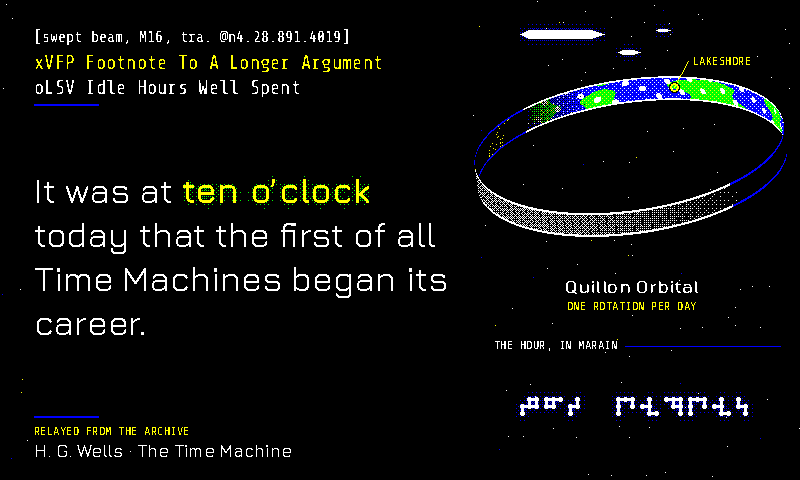
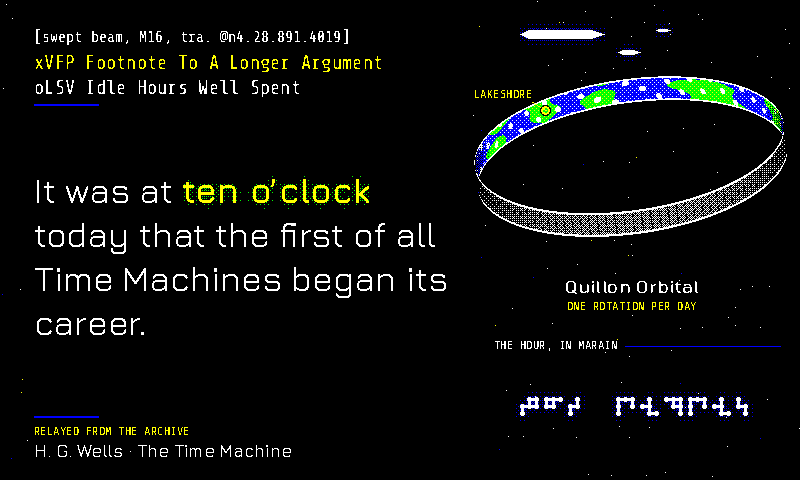
culture/orbital: fix two time-of-day bugs found in review
culture: the visible inner face showed the plates between 01:20 and
13:20, because noon was at -40 degrees rather than at the middle of the
far arc. As a result the afternoon marker sat on the black hull, and in
the small hours it sat on the lit face. Noon is now at -90 degrees, so
the face holds exactly the 06:00-18:00 plates. The trade-off is that the
face's night side shrinks to its two tips.

orbital: the sun's path was shifted right of the apex, which put it
behind the quote card from about 06:30 to 09:00. The path is now wide
and steep enough that the sun clears the card at every daylight minute,
and the noon sun still stands below the Arch.

Both fixes come with a test that fails on the previous code. The
goldens, previews and docs are updated.

Claude-Session: https://claude.ai/code/session_01AwDrAv4hFJ5HKd3W2Ckru6

diff --git a/idle_hours/render_quote.py b/idle_hours/render_quote.py
@@ -24814,7 +24814,7 @@ def render_observation_frame(time_str: str, quote_row: dict, width: int, height:
 #
 # * ``culture`` marks the plate whose local time is now. The marker travels
 #   the full ring once per 24 hours, riding the lit inner face through the day
-#   and crossing round onto the dark hull at night.
+#   and crossing round onto the hull at night.
 # * ``orbital`` paints the far side of the ring as the local clock sees it. The
 #   part of the Arch overhead is twelve hours away, so at noon the zenith is
 #   dark and the Arch is lit only where it leaves the horizons, and at midnight
@@ -25011,7 +25011,8 @@ def _marain_layout(text: str, max_cols: int) -> list[list[int | None]]:
 # traffic — a bracketed transmission line, then ``x`` (from) and ``o`` (to)
 # ship names — and the quote as its body. The matched phrase glows like a
 # drone's aura field. Right: the Orbital the signal concerns, a tilted ring
-# with a lit inner face, a night side pricked by city lights and a dark hull,
+# whose visible inner face holds exactly the plates in daylight (their cities
+# showing only where the face turns into dusk at its tips) and the hull,
 # the current plate marked; and under it the matched phrase again, in Marain.
 _CULTURE_TEXT_X = (34, 462)
 _CULTURE_HEADER_Y = 28
@@ -25022,7 +25023,10 @@ _CULTURE_ORBITAL = (632, 168, 156)       # centre x, centre y, radius
 _CULTURE_ORBITAL_K = 0.42                # minor/major axis = sin(view elevation)
 _CULTURE_ORBITAL_TILT = -0.14            # screen rotation of the ring, radians
 _CULTURE_ORBITAL_W = 24                  # band thickness on screen, px
-_CULTURE_NOON = math.radians(-40)        # ring angle of the plate at local noon
+# Ring angle of the plate at local noon: the middle of the far arc, so the lit
+# inner face we can see holds exactly the plates between 06:00 and 18:00 and
+# the marker is on the face by day and round on the hull by night.
+_CULTURE_NOON = math.radians(-90)
 _CULTURE_MARAIN_RECT = (494, 338, 780, 446)
 _CULTURE_MARAIN_PITCH = 7
 _CULTURE_MARAIN_STEP = 24                # glyph advance, px
@@ -25351,7 +25355,8 @@ def render_culture_frame(time_str: str, quote_row: dict, width: int, height: int
 # read — at noon the Arch is lit at its feet and dark overhead; at midnight the
 # zenith burns in daylight across a black sky and the feet are dark. Both halves
 # of that are Banks's own image. The sky follows the hour too: blue by day with
-# the sun on a path offset from the Arch (an Orbital is tilted to its star
+# the sun on a wide, steep path that keeps it clear of the quote card and
+# stands it below the Arch's apex at noon (an Orbital is tilted to its star
 # precisely so the far side does not eclipse noon), a warm band at the horizon
 # around dawn and dusk, and stars at night.
 #
@@ -25459,7 +25464,7 @@ def _orbital_paint_sky(image: Image.Image, clock: float) -> None:
             # The warm band, strongest over the sun's side of the sky: red
             # rising into a thinner gold edge at the horizon itself.
             east_west = math.sin(2.0 * math.pi * (clock - 0.5))
-            sun_x = 520 + 250 * east_west
+            sun_x = 400 + 380 * east_west
             near_sun = lambda x: max(0.25, 1.0 - abs(x - sun_x) / 620.0)  # noqa: E731
             sky.paste(red, (0, 0), _orbital_ramp_mask(
                 width, horizon, lambda y: max(0.0, (y / horizon - 0.66) / 0.34) ** 1.3 * 0.85,
@@ -25473,15 +25478,17 @@ def _orbital_paint_sky(image: Image.Image, clock: float) -> None:
 def _orbital_sun_xy(clock: float) -> tuple[int, int] | None:
     """Where the sun stands, or ``None`` when it is below the horizon.
 
-    Its path is offset to the right of the Arch's apex — an Orbital is tilted to
-    its star precisely so that the far side of the ring does not eclipse noon.
+    The path is wide and climbs steeply, so a low sun stands clear of the quote
+    card on either side of it rather than behind it, and the noon sun stands
+    below the Arch's apex — an Orbital is tilted to its star precisely so that
+    the far side of the ring does not eclipse noon.
     """
     sun = _orbital_sun(clock)
     if sun <= 0.02:
         return None
     east_west = math.sin(2.0 * math.pi * (clock - 0.5))
-    x = 520 + 250 * east_west
-    y = _ORBITAL_HORIZON - 255 * sun ** 0.45
+    x = 400 + 380 * east_west
+    y = _ORBITAL_HORIZON - 255 * sun ** 0.25
     return round(x), round(y)
 
 

diff --git a/tests/test_render_quote_themes.py b/tests/test_render_quote_themes.py
@@ -4340,6 +4340,16 @@ class TestCultureFrame:
         assert math.sin(noon) < 0, "the noon plate should be on the far arc, facing us"
         assert math.sin(midnight) > 0, "the midnight plate should be on the near arc"
 
+    @pytest.mark.parametrize("hour", range(24))
+    def test_marker_is_on_the_lit_face_by_day_and_the_hull_by_night(self, hour):
+        """The far arc (sin < 0) shows the inner face; it must hold exactly the
+        plates in daylight, or the afternoon marker lands on a black hull."""
+        side = math.sin(rq._culture_plate_theta((hour + 0.5) / 24))
+        if 6 <= hour < 18:
+            assert side < 0, f"{hour}:30 is daytime but the marker is on the hull"
+        else:
+            assert side > 0, f"{hour}:30 is night but the marker is on the lit face"
+
     def test_marker_goes_round_once_a_day(self):
         image = Image.new("RGB", (800, 480), rq.SPECTRA6["black"])
         draw = ImageDraw.Draw(image)
@@ -4488,6 +4498,21 @@ class TestOrbitalFrame:
         cx, a, b = rq._ORBITAL_ARCH
         rho = math.hypot((x - cx) / a, (rq._ORBITAL_HORIZON - y) / b)
         assert rho < 1 - rq._orbital_arch_width(math.pi) - 0.02, "noon sun should stand below the Arch"
+
+    def test_sun_is_never_behind_the_card(self):
+        """Every daylight minute, the sun's disc stands clear of the quote card
+        (with a small gap), so the sky always shows it."""
+        x0, y0, x1, y1 = rq._ORBITAL_CARD
+        up = 0
+        for minute in range(1440):
+            pos = rq._orbital_sun_xy(minute / 1440)
+            if pos is None:
+                continue
+            up += 1
+            dx = max(x0 - pos[0], 0, pos[0] - x1)
+            dy = max(y0 - pos[1], 0, pos[1] - y1)
+            assert dx * dx + dy * dy >= 13 * 13, f"sun behind the card at minute {minute}: {pos}"
+        assert up > 600, "the sun should be up for most of the day"
 
     def test_on_palette_deterministic_and_hour_dependent(self):
         image = self._render()

diff --git a/CLAUDE.md b/CLAUDE.md
@@ -710,11 +710,11 @@ Two of those additions failed on their first cut, in the same direction: **too m
   - `culture` (black space / white Jura body / yellow matched phrase in a green drone-aura bloom / Share Tech Mono chrome — **a Mind's signal beside the Orbital it concerns**, after Iain M. Banks's Culture novels. A custom-render frame (`render_culture_frame`), and the first of a pair with `orbital`: one Orbital seen from two places.
     **Both tell the time with the Orbital itself.** An Orbital is a ring millions of kilometres across that spins once a day, so each plate cycles through dawn, noon and midnight, and at any instant the ring as a whole carries *every* local time. `_culture_clock` reads the **full 24-hour clock to the minute** (on an Orbital noon and midnight are different pictures, so the 12-hour convention the other hour-carriers use would be wrong here); neither theme prints a digit of it.
     **Composition.** Left: the signal, set out the way the novels print ship-to-ship traffic — a bracketed transmission line (`[tight point, M16, tra. @n4.28.861.3644]`) then `x` (from) and `o` (to) ship names in Share Tech Mono — and the quote as its body in Jura, ragged-right via `wrap_quote_into_masks(align="left")`, white prose pasted from a thresholded mask and the matched phrase a yellow core in a green `paint_neon_mask` bloom (the drone's aura field; `ground` pinned to black so it can never eat the prose). Right: the Orbital, tilted in space, rendered **per pixel in closed form** by `_culture_paint_orbital` — for a screen pixel the ring's centreline is an ellipse of half-height `h = R k sin`, so a pixel is on the far arc when `v` lies in `[-h - W, -h]` and on the near arc when it lies in `[h - W, h]`; the near arc is tested first so the hull passes in front of the face where the two meet at the ends. The far arc shows the **inner face** (land, sea and cloud from `_culture_terrain`'s incommensurate sines, shaded toward the terminator by one `BAYER_8x8` read partitioned `pride`-style, its night side black but for yellow city lights), the near arc the **hull** (a K+W stipple where it faces the sun, with ribs). A small GSV and two escorts cross the dark above it as field-sheened hulls in a blue bloom.
-    **The time is the marked plate.** `_culture_plate_theta` puts the plate whose local time is now at `_CULTURE_NOON + (clock − 0.5)·2π`: overhead on the lit face at noon, round on the dark hull at midnight, once round per day. Its leader runs radially away from the ring's centre so it never crosses the band — except near the left end, where radial would point into the quote, so it drops straight down instead; `TestCultureFrame::test_time_reaches_only_the_orbital` sweeps the clock to pin that nothing time-dependent ever reaches the signal column.
+    **The time is the marked plate.** `_culture_plate_theta` puts the plate whose local time is now at `_CULTURE_NOON + (clock − 0.5)·2π`: overhead on the lit face at noon, round on the hull at midnight, once round per day. `_CULTURE_NOON` is the *middle* of the far arc (−90°) so that arc holds exactly the 06:00–18:00 plates: an earlier −40° put the visible face at 01:20–13:20 and parked the afternoon marker on the hull, which `TestCultureFrame::test_marker_is_on_the_lit_face_by_day_and_the_hull_by_night` now pins against. The cost is that the face's night side has shrunk to its two tips, so its city lights show only at dusk's edge. Its leader runs radially away from the ring's centre so it never crosses the band — except near the left end, where radial would point into the quote, so it drops straight down instead; `TestCultureFrame::test_time_reaches_only_the_orbital` sweeps the clock to pin that nothing time-dependent ever reaches the signal column.
     **Marain.** The matched phrase is written out again under the ring in a generated **Marain-idiom** script on the Culture's 3×3 dot grid (`_MARAIN_TABLE`): each letter and digit gets a distinct, orthogonally connected 4–6-point pattern, walked by a fixed multiplicative step through the 512 codes so neighbouring letters don't get near-identical glyphs, and wrapped only at word gaps. Banks published the grid; the table is ours and the comments say so — it transcribes deterministically, it does not claim to reproduce his script. **Ship names are invented** (a time-flavoured list — this is a clock) rather than lifted from the novels, and every piece of signal furniture (ships, channel, `M` level, the `tra.` date, the Orbital and plate names) comes from `_row_digest`, never the clock, so a different quote is a different signal. Chrome text is white or yellow, never blue: panel blue on black is the lowest-contrast pair after red and small mono type in it vanishes — blue is kept for rules and blooms. Composed at 800×480 and NEAREST-downsampled (the `metro` convention). Saturation tier `0.7`.)
   - `orbital` (sky-toned ground / Jura SemiBold on a day-white or night-black card / blue matched phrase by day, yellow in a green aura by night — **the Culture's Arch, seen from one of the Orbital's plates**. A custom-render frame (`render_orbital_frame`), `culture`'s companion.
     **The Arch is the clock.** A point `phi` round the ring keeps a local time `phi/2π` of a day ahead of ours (`_orbital_arch_day`), so the band is lit plate by plate by each plate's *own* hour: near the horizons it shares our time and the zenith, halfway round, is twelve hours away. At noon the Arch is lit at its feet and dark overhead; at midnight the zenith blazes in daylight across a black sky and the feet are dark — Banks's own image, and a 24-hour dial nobody needs teaching to read. It **narrows as it recedes**: a plate `phi` round is `2R sin(phi/2)` away, so the band width falls as `1/sin(phi/2)` (`_orbital_arch_width`). `_orbital_paint_arch` solves each row's two possible x-spans from the ellipse in closed form, so the pass costs the band's area rather than the sky's. The rim walls are a fixed ~1.5 px at every width, so the Arch keeps its outline where its surface is in night — which by day is overhead, where the far side's night reads as a band of navy a shade deeper than the sky.
-    **The sky follows the hour** (`_orbital_period`: day / twilight / night on the sun's zenith cosine). Day is a blue-to-pale ramp; twilight a navy haze with a red-into-gold band **weighted toward the sun's side** of the sky (east at dawn, west at dusk, via a separable column weight); night black with a seeded star field. Skies are laid by `_orbital_ramp_mask` — a row-density gradient against a tiled `BAYER_8x8` threshold, jittered by `_tarot_noise`, compared with one saturating `ImageChops.subtract` — because a quarter-million-pixel sky is too many for a per-pixel Python loop. The sun travels a path **offset from the Arch** (`_orbital_sun_xy`: an Orbital is tilted to its star precisely so the far side does not eclipse noon, and `TestOrbitalFrame` pins the noon sun below the band). The plate itself is a hazy far range over forested hills by day and silhouettes with a cold blue crest by night, lit only by a few settlements that gather along the far slopes — and stay dark at twilight, when nobody has needed a lamp yet.
+    **The sky follows the hour** (`_orbital_period`: day / twilight / night on the sun's zenith cosine). Day is a blue-to-pale ramp; twilight a navy haze with a red-into-gold band **weighted toward the sun's side** of the sky (east at dawn, west at dusk, via a separable column weight); night black with a seeded star field. Skies are laid by `_orbital_ramp_mask` — a row-density gradient against a tiled `BAYER_8x8` threshold, jittered by `_tarot_noise`, compared with one saturating `ImageChops.subtract` — because a quarter-million-pixel sky is too many for a per-pixel Python loop. The sun travels a wide, steep path (`_orbital_sun_xy`) that keeps its disc clear of the quote card at every daylight minute — an earlier path shifted right of the apex sat behind the card from about 06:30 to 09:00, and `TestOrbitalFrame::test_sun_is_never_behind_the_card` now sweeps the day — and stands it below the Arch's apex at noon (an Orbital is tilted to its star precisely so the far side does not eclipse noon). The plate itself is a hazy far range over forested hills by day and silhouettes with a cold blue crest by night, lit only by a few settlements that gather along the far slopes — and stay dark at twilight, when nobody has needed a lamp yet.
     **The card flips with the sky**: white with black Jura SemiBold and a solid blue phrase by day (lifted on the `kanagawa` / `pride` shadow ledge), black with white type and `culture`'s yellow-in-green aura phrase by night (floated on a blue field bloom — a drone's field, not a sheet of paper). Its header names the plate and Orbital from the same `_culture_signal` digest and repeats the plate's name in Marain. Composed at 800×480 and NEAREST-downsampled. Saturation tier `0.5` (the white card and the day sky dominate most hours).)
 - **Fonts.** Typography is per-theme, and each non-default theme deliberately picks a face from a different type *family* so the rendered frame's silhouette changes with the theme — not just its palette. `THEME_FONTS` maps each `THEMES` entry to a dict with `quote_regular` / `quote_bold` / `ornament` candidate chains, each a list of path strings OR `(path, variation_name)` tuples. The tuple form targets variable fonts — `load_font` calls `set_variation_by_name(name)` after the truetype load, so e.g. the scholar theme picks Regular/Bold instances from a single variable `Bitter-Variable.ttf` (whose default axis instance is Thin — a missing variation call would render near-invisible hairlines on the panel). Every per-theme chain ends at the Playfair / DejaVu defaults so a missing-font install degrades to the default face instead of dropping to the PIL bitmap fallback. System metadata / debug strips always use DejaVu / Noto / Liberation Sans regardless of theme. Install `apt install fonts-noto-core fonts-dejavu-core` if the bundled fonts aren't found. When every TTF candidate is missing, `load_font` logs a one-shot warning to stderr before returning `ImageFont.load_default()` so a misconfigured install surfaces instead of silently producing an 8-pixel bitmap render.
   - `default` and `dark` share the Playfair Display chain (transitional / high-contrast serif; repo-local `idle_hours/fonts/`, then common Pi/Linux paths, with DejaVu Serif / Liberation Serif / Noto Serif as system fallbacks).

diff --git a/README.md b/README.md
@@ -383,9 +383,9 @@ The upper water carries a **caustic net** — the rippling mesh of surface light
 
 **The hour is a depth.** A sounding gauge down the left margin runs 500 m at one o'clock to 6000 m at twelve — and 6000 m is the true floor of the abyssal zone the theme is named for, so the clock bottoms out exactly where the name does. Like the other custom-render frames it dispatches out of `render()` into its own frame function, so `--mode debug` does not apply.
 
-**`culture`** and **`orbital`** are a pair after Iain M. Banks's Culture novels — one Orbital seen from two places — and both tell the time with the Orbital itself. An Orbital is a ring millions of kilometres across that spins once a day, so its plates cycle through dawn, noon and midnight, and at any instant the ring as a whole carries *every* local time at once. `culture` is a Mind's signal intercepted in deep space, set out the way the novels print ship-to-ship traffic (`[tight point, M16, tra. @n4.28.861.3644]`, then `x` and `o` ship names — all invented, and time-flavoured, this being a clock), with the matched phrase glowing like a drone's aura field; beside it the Orbital hangs tilted in space, its lit inner face showing land, sea and cloud, its night side pricked by city lights, and a marker riding the plate whose local time is *now* — round the lit face by day, onto the dark hull at night. Under it the matched phrase is written out again in a generated **Marain-idiom** script on the Culture's 3×3 dot grid (the grid is Banks's idea; the glyph table is ours, and doesn't pretend otherwise).
+**`culture`** and **`orbital`** are a pair after Iain M. Banks's Culture novels — one Orbital seen from two places — and both tell the time with the Orbital itself. An Orbital is a ring millions of kilometres across that spins once a day, so its plates cycle through dawn, noon and midnight, and at any instant the ring as a whole carries *every* local time at once. `culture` is a Mind's signal intercepted in deep space, set out the way the novels print ship-to-ship traffic (`[tight point, M16, tra. @n4.28.861.3644]`, then `x` and `o` ship names — all invented, and time-flavoured, this being a clock), with the matched phrase glowing like a drone's aura field; beside it the Orbital hangs tilted in space, its lit inner face showing land, sea and cloud, its city lights showing where it turns into dusk, and a marker riding the plate whose local time is *now* — round the lit face by day, onto the hull at night. Under it the matched phrase is written out again in a generated **Marain-idiom** script on the Culture's 3×3 dot grid (the grid is Banks's idea; the glyph table is ours, and doesn't pretend otherwise).
 
-`orbital` stands on one of those plates and looks up. The rest of the ring rises from both horizons and meets overhead — the Arch — narrowing as it recedes, and **each part of it is lit by its own local time**: the zenith is halfway round the ring and so twelve hours away. At noon the Arch is lit at its feet and dark overhead; at midnight it blazes in daylight across a black sky. The sky follows the hour too (blue by day with the sun on a path offset from the Arch, a warm band on the sun's side at dawn and dusk, stars at night), and the quote card flips from white-on-sky to black with the drone-aura phrase after dark. Neither theme prints a digit of the time. Both bundle **Jura** (a humanist technical sans) and **Share Tech Mono** (OFL).
+`orbital` stands on one of those plates and looks up. The rest of the ring rises from both horizons and meets overhead — the Arch — narrowing as it recedes, and **each part of it is lit by its own local time**: the zenith is halfway round the ring and so twelve hours away. At noon the Arch is lit at its feet and dark overhead; at midnight it blazes in daylight across a black sky. The sky follows the hour too (blue by day with the sun standing clear of the card and below the Arch at noon, a warm band on the sun's side at dawn and dusk, stars at night), and the quote card flips from white-on-sky to black with the drone-aura phrase after dark. Neither theme prints a digit of the time. Both bundle **Jura** (a humanist technical sans) and **Share Tech Mono** (OFL).
 
 Pass `--theme auto` to let the clock pick by wall-clock time. The defaults are `default` during the day (06:00–18:00) and `dark` at night (18:00–06:00) — the legacy binary contract. Broaden the rotation by setting `--auto-day-theme` and/or `--auto-night-theme` to any other registered theme, e.g.
 
